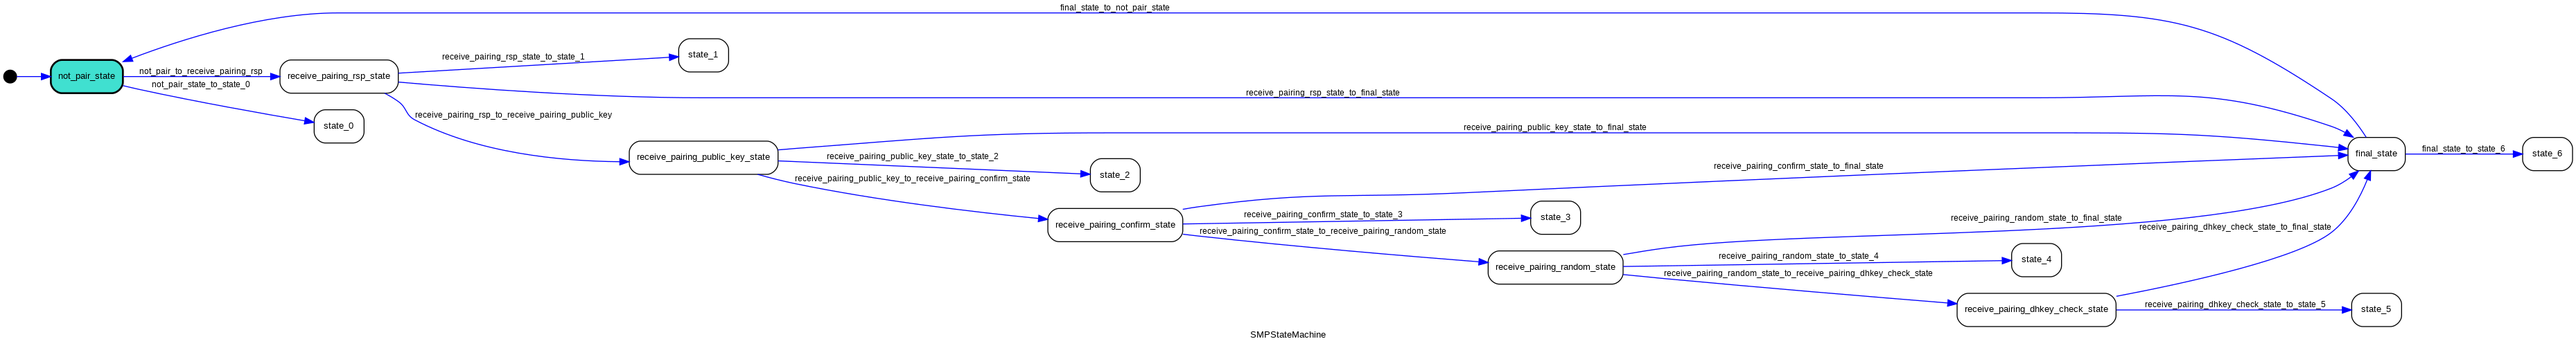
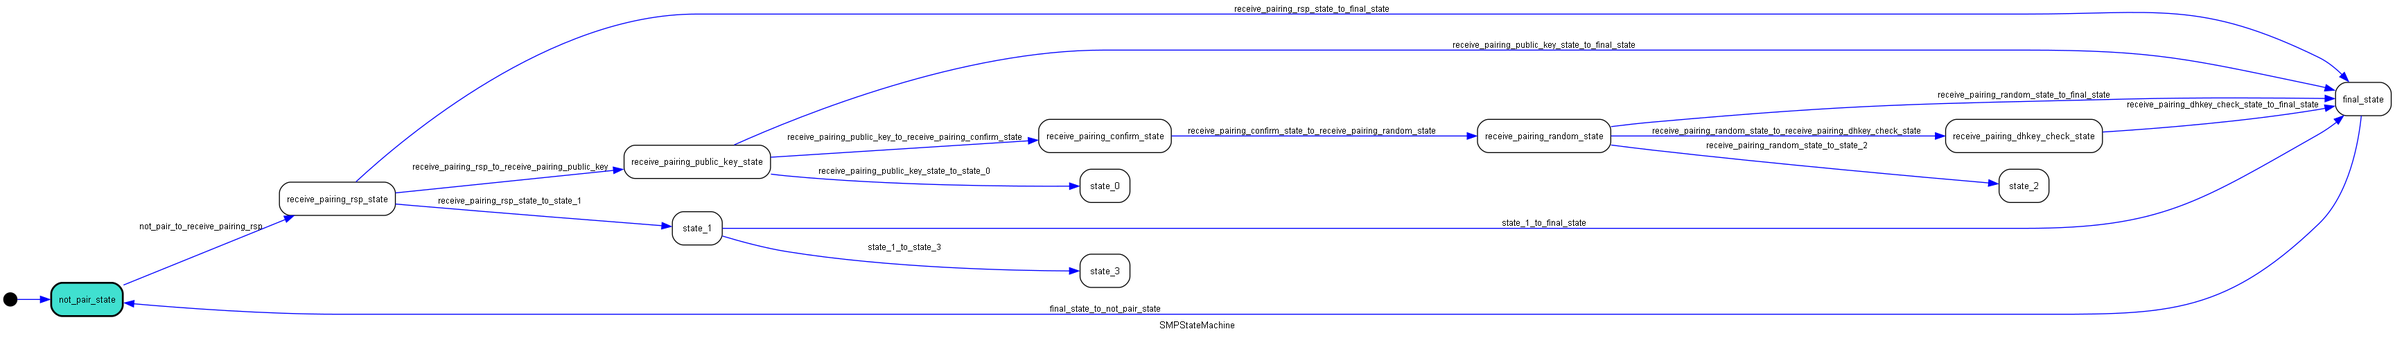
增加状态

diff --git a/BlesserBackend/Backend/src/main.c b/BlesserBackend/Backend/src/main.c
@@ -37,14 +37,16 @@ int parse(struct BlesserInstruction* instruction, uint8_t* recv, int len)
         instruction->mutations[instruction->mutation_count].cmd_id = *(char*)(recv + offset);
         instruction->mutations[instruction->mutation_count].field_id = *(char*)(recv + offset + 1);
         int value_size = mapper[instruction->mutations[instruction->mutation_count].cmd_id][instruction->mutations[instruction->mutation_count].field_id];
-        memcpy(instruction->mutations[instruction->mutation_count].mutation_values, recv + offset + 2, value_size);
 
         printk("%u, %u, ", instruction->mutations[instruction->mutation_count].cmd_id, instruction->mutations[instruction->mutation_count].field_id);
-        for (int i = 0; i < value_size; i++)
-        {
-            printk("%x ", instruction->mutations[instruction->mutation_count].mutation_values[i]);
-        }
+        // for (int i = 0; i < value_size; i++)
+        // {
+        //     printk("%x ", instruction->mutations[instruction->mutation_count].mutation_values[i]);
+        // }
         printk("\n");
+        memcpy(instruction->mutations[instruction->mutation_count].mutation_values, recv + offset + 2, value_size);
+
+
 
         instruction->mutation_count++;
 
@@ -72,7 +74,8 @@ const struct device* uart = DEVICE_DT_GET(DT_NODELABEL(uart0));
 
 /* Define the receive buffer */
 static uint8_t rx_buf[RECEIVE_BUFF_SIZE] = {0};
-static uint8_t app_buf[RECEIVE_BUFF_SIZE] = {0};
+uint8_t app_buf[RECEIVE_BUFF_SIZE] = {0};
+uint8_t app_buf_size = 0;
 
 static void start_scan(void);
 
@@ -97,6 +100,11 @@ void thread_blesser_backend(void)
         k_mutex_lock(&app_buf_mutex, K_FOREVER);
         if (recv_flag)
         {
+            printk("recv_len: %d\n", recv_len);
+            for (int i = 0; i < recv_len; i++)
+            {
+                printk("%x ", app_buf[i]);
+            }
             if (default_conn)
             {
                 if (app_buf[0] == 0x01 && recv_len == 1)
@@ -106,7 +114,7 @@ void thread_blesser_backend(void)
                     int xx = bt_conn_disconnect(default_conn,BT_HCI_ERR_AUTH_FAIL);
                     RESP_size = 0;
                     RESP_idx = 0;
-                    printk("%d\n", xx);
+                    // printk("%d\n", xx);
                     // bt_conn_auth_cancel(default_conn);
                 }
                 else if (app_buf[0] == 0xff && recv_len == 1)
@@ -146,16 +154,30 @@ static void uart_cb(const struct device* dev, struct uart_event* evt, void* user
     {
     case UART_RX_RDY:
         // printk("UART_RX_RDY event\nUART_RX_LEN: %d\n", evt->data.rx.len);
-        memcpy(app_buf, evt->data.rx.buf + evt->data.rx.offset, evt->data.rx.len);
-        // memset(app_buf + evt->data.rx.len, 0, 1);
+        memcpy(app_buf+app_buf_size, evt->data.rx.buf + evt->data.rx.offset, evt->data.rx.len);
+        app_buf_size += evt->data.rx.len;
+
         k_mutex_lock(&app_buf_mutex, K_FOREVER);
-        recv_flag = 1;
-        recv_len = evt->data.rx.len;
-        uart_rx_disable(uart);
+        if(app_buf_size > 4){
+            char tail[4] = {0};
+            memcpy(tail, app_buf+app_buf_size-4, 4);
+
+            if(tail[0] == 0x66 && tail[1] ==0x78 && tail[2] == 0x78 && tail[3] == 0x6b )
+            {
+                        // memset(app_buf + evt->data.rx.len, 0, 1);
+                
+                recv_flag = 1;
+                recv_len = app_buf_size-4;
+                uart_rx_disable(uart);
+                
+            }
+
+        }
         k_mutex_unlock(&app_buf_mutex);
         break;
 
     case UART_RX_DISABLED:
+        app_buf_size = 0;
         uart_rx_enable(uart, rx_buf, sizeof rx_buf, RECEIVE_TIMEOUT);
         break;
 

diff --git a/src/core.py b/src/core.py
@@ -4,6 +4,7 @@ from SMPacket import SMPSocket, SMPSocket_TEST, SMPacket
 import time
 import random
 import threading
+import os
 from copy import deepcopy
 
 
@@ -81,8 +82,8 @@ class SMPFuzzer():
 
     def process_fuzzing(self):
         while (True):
-            # state_name = self.mutator.stateSelection()
-            state_name = "not_pair_state"
+            state_name = self.mutator.stateSelection()
+            #state_name = "receive_pairing_rsp_state"
             print("[DEBUG]: Chosen State:\n", state_name)
             tostate_bytes, last_transition = self.state_machine.get_tostate_path(state_name)
             packets_mutatable = {}
@@ -113,22 +114,32 @@ class SMPFuzzer():
             corpus = self.state_machine.corpus[mutation_packet_code]
             assert (corpus != '')
             mutation_packet = corpus.MutatePacket(mutation_vec)
+            #mutation_bytes = b'\x0c\x00\xf8\x01\xbf\xee\xfeY\x10{-g+a\xec\xf0\x17\xc8\x10\x82XW\xc38\x9f\xb8\x90\xa1\x15q\x80\t\x08u\\\t\xfc*\xd0F\x8d\xb0\x8e"3\xae\x11\x98>\x84\xd5\x0e\xb4+\x1b\xcf-\x12L\xb0\xcb\x1e\x0f\xcf\x02\xab'
             self.socket.send(mutation_bytes)
             # send \xff for receving responses
             time.sleep(2)
-            self.socket.send(b'\xff')
+            self.socket.wait_for_resp()
             while (True):
                 packet = fuzzer.socket.recv()
                 if (packet == b''):
                     break
                 self.state_machine.ALLRESP.insert(0, packet)
 
-            self.state_machine.goto_state(state_name, tostate_bytes, mutation_bytes, mutation_packet)
+            try:
+                self.state_machine.goto_state(state_name, tostate_bytes, mutation_bytes, mutation_packet)
 
-            self.mutator.calculateStateProb(list(self.state_machine.toState_path_map.keys()))
-            # reset the socket
-            self.socket.reset()
-            self.state_machine.reset()
+                self.mutator.calculateStateProb(list(self.state_machine.toState_path_map.keys()))
+                # reset the socket
+                self.socket.reset()
+                self.state_machine.reset()
+
+                with open("test.dot", "w") as f:
+                    f.write(self.state_machine._graph().__str__())
+                os.system("dot -Tpng test.dot -o test.png")
+            except Exception as e:
+                print("[ERROR]: ",e)
+                pass
+
 
     def test_fuzzing(self):
         while (True):
@@ -170,7 +181,6 @@ class SMPFuzzer():
             # reset the socket
             self.socket.reset()
             self.state_machine.reset()
-
 
 if __name__ == '__main__':
     fuzzer = SMPFuzzer()

diff --git a/src/SMPStateMachine.py b/src/SMPStateMachine.py
@@ -2,6 +2,9 @@ import os
 import sys
 from statemachine import StateMachine, State
 from statemachine.transition import Transition
+from statemachine.states import States
+from typing import Dict,Any
+from statemachine.dispatcher import ObjectConfig,resolver_factory
 import re
 import networkx as nx
 import warnings
@@ -132,7 +135,7 @@ class SMPStateMachine(StateMachine):
     # receive_pairing_failed_state.to(final_state, event="receive_pairing_failed_state_to_final_state")
     # transition_map["receive_pairing_failed_state_to_final_state"] = (None, None)
     receive_pairing_dhkey_check_state.to(final_state, event="receive_pairing_dhkey_check_state_to_final_state")
-    transition_map["receive_pairing_dhkey_check_state_to_final_state"] = (TESTPACKET, TESTPACKET)
+    transition_map["receive_pairing_dhkey_check_state_to_final_state"] = (None, None)
 
     final_state.to(not_pair_state, event="final_state_to_not_pair_state")
     transition_map["final_state_to_not_pair_state"] = (None, None)
@@ -256,13 +259,31 @@ class SMPStateMachine(StateMachine):
 
     # TODO: How to merge the same state?
     def create_state(self, name, event, current_mutation_bytes, current_transitions):
-        new_state = State(name)
+        new_state = State(name,value=name)
         new_state._set_id(name)
+
+
         transition = self.current_state.to(new_state, event=event)[0]
         self.states.append(new_state)
         self.transition_map[event] = (self.current_req, self.current_rsp)
         self.stateName_map[new_state.name] = new_state
         self.toState_path_map[new_state.name] = {current_mutation_bytes: current_transitions + [transition]}
+
+        machine = ObjectConfig(self, skip_attrs=self._get_protected_attrs())
+        model = ObjectConfig(self.model, skip_attrs={self.state_field})
+        default_resolver = resolver_factory(machine, model)
+
+
+        for s in self.states:
+            s._setup(self, default_resolver)
+
+        self.states_map: Dict[Any, State] = {
+            state.value: state for state in self.states
+        }
+
+        for state in self.states:
+            for transition in state.transitions:
+                transition._setup(self, default_resolver)
 
     # def step_with_mutation(self, mutation_packet):
     #     self.current_req = mutation_packet

diff --git a/src/SMPacket.py b/src/SMPacket.py
@@ -95,6 +95,8 @@ class SMPSocket:
     def send(self, data):
         if(data == b''):
             data = b'\x00'
+        
+        data += bytes([0x66, 0x78, 0x78, 0x6b])
         write_len = self.ser.write(data)
 
     def recv(self):
@@ -120,8 +122,15 @@ class SMPSocket:
     def close(self):
         pass
 
+    def wait_for_resp(self):     
+        reset_data = b'\xff'
+        reset_data += bytes([0x66, 0x78, 0x78, 0x6b])
+        self.ser.write(reset_data)
+
     def reset(self):     
-        self.ser.write(b'\x01')
+        reset_data = b'\x01'
+        reset_data += bytes([0x66, 0x78, 0x78, 0x6b])
+        self.ser.write(reset_data)
 
 
 class SMPSocket_TEST:

diff --git a/test/serial_test.py b/test/serial_test.py
@@ -7,12 +7,15 @@ ser = serial.Serial("COM5", 115200)
 
 def send(c):
     # a = input("byte: ")
+    c += bytes([0x66, 0x78, 0x78, 0x6b])
     ser.write(c)
 
 
 def reset():
+    reset_data = b'\x01'
+    reset_data += bytes([0x66, 0x78, 0x78, 0x6b])
     # a = input("byte: ")
-    ser.write(b'\x01')
+    ser.write(reset_data)
 
 def recv():
     com_input = b''
@@ -26,8 +29,9 @@ def recv():
 
 
 if __name__ == "__main__":
-    send(b'\x00')
-    time.sleep(2)
-    send(b'\xff')
-    recv()
+    reset()
+    # send(b'\x00')
+    # time.sleep(2)
+    # send(b'\xff')
+    # recv()
     

diff --git a/src/SMPMutator.py b/src/SMPMutator.py
@@ -306,7 +306,10 @@ class SMPMutator:
         res = b""
         for _ in value:
             new_byte = random.randint(0, int('0xff', 16))
-            res += bytes.fromhex(hex(new_byte)[2:])
+            t = hex(new_byte)[2:]
+            t = t.zfill(len(t) if (len(t) % 2 == 0) else (len(t) // 2 + 1) * 2)
+            t = bytes.fromhex(t)
+            res += t
         return res
         # value = value.decode('utf-8')
         # max_value = ""
